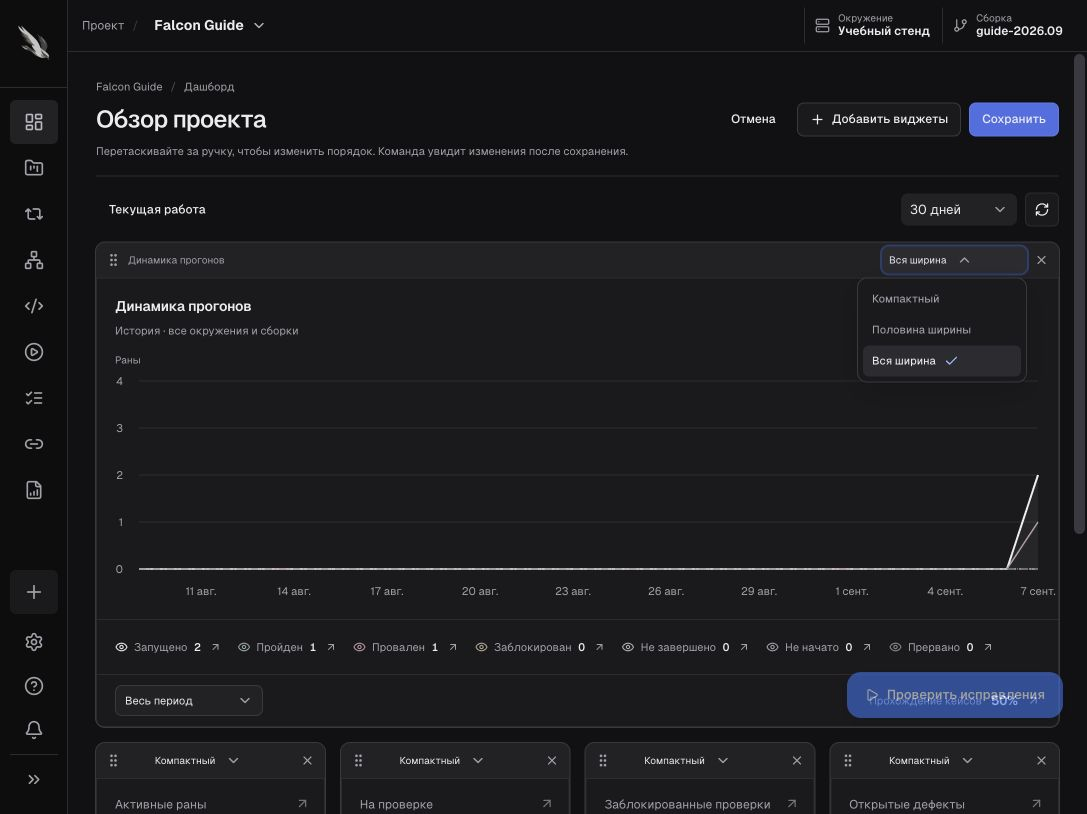
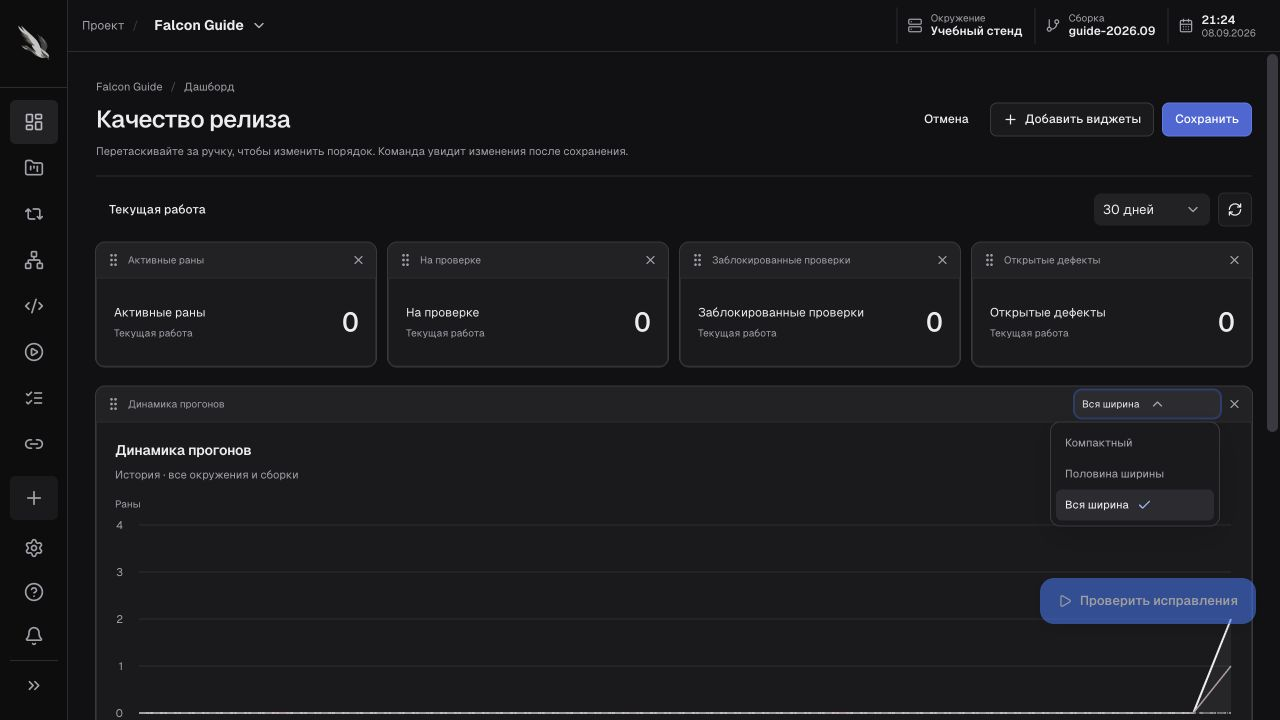
docs(dashboard): illustrate widget setup removal and saved layouts

diff --git a/app/src/modules/core-tms/presentation/dashboard/customize/layout.module.css b/app/src/modules/core-tms/presentation/dashboard/customize/layout.module.css
@@ -18,6 +18,7 @@
 .page button:disabled { cursor: default; opacity: .45; }
 .empty { flex: 1; min-height: 490px; display: flex; flex-direction: column; align-items: center; justify-content: center; padding: 40px 20px 80px; text-align: center; }
 .illustration { width: 340px; max-width: 75%; height: auto; margin-bottom: 22px; object-fit: contain; }
+:global(.dark) .illustration { filter: brightness(2.4); }
 .empty h2 { font-size: 23px; font-weight: 520; letter-spacing: -.65px; margin: 0 0 13px; }
 .empty p { max-width: 405px; margin: 0 0 24px; color: var(--muted); font-size: 13px; line-height: 1.75; }
 .empty small { color: var(--muted); max-width: 400px; line-height: 1.6; }
